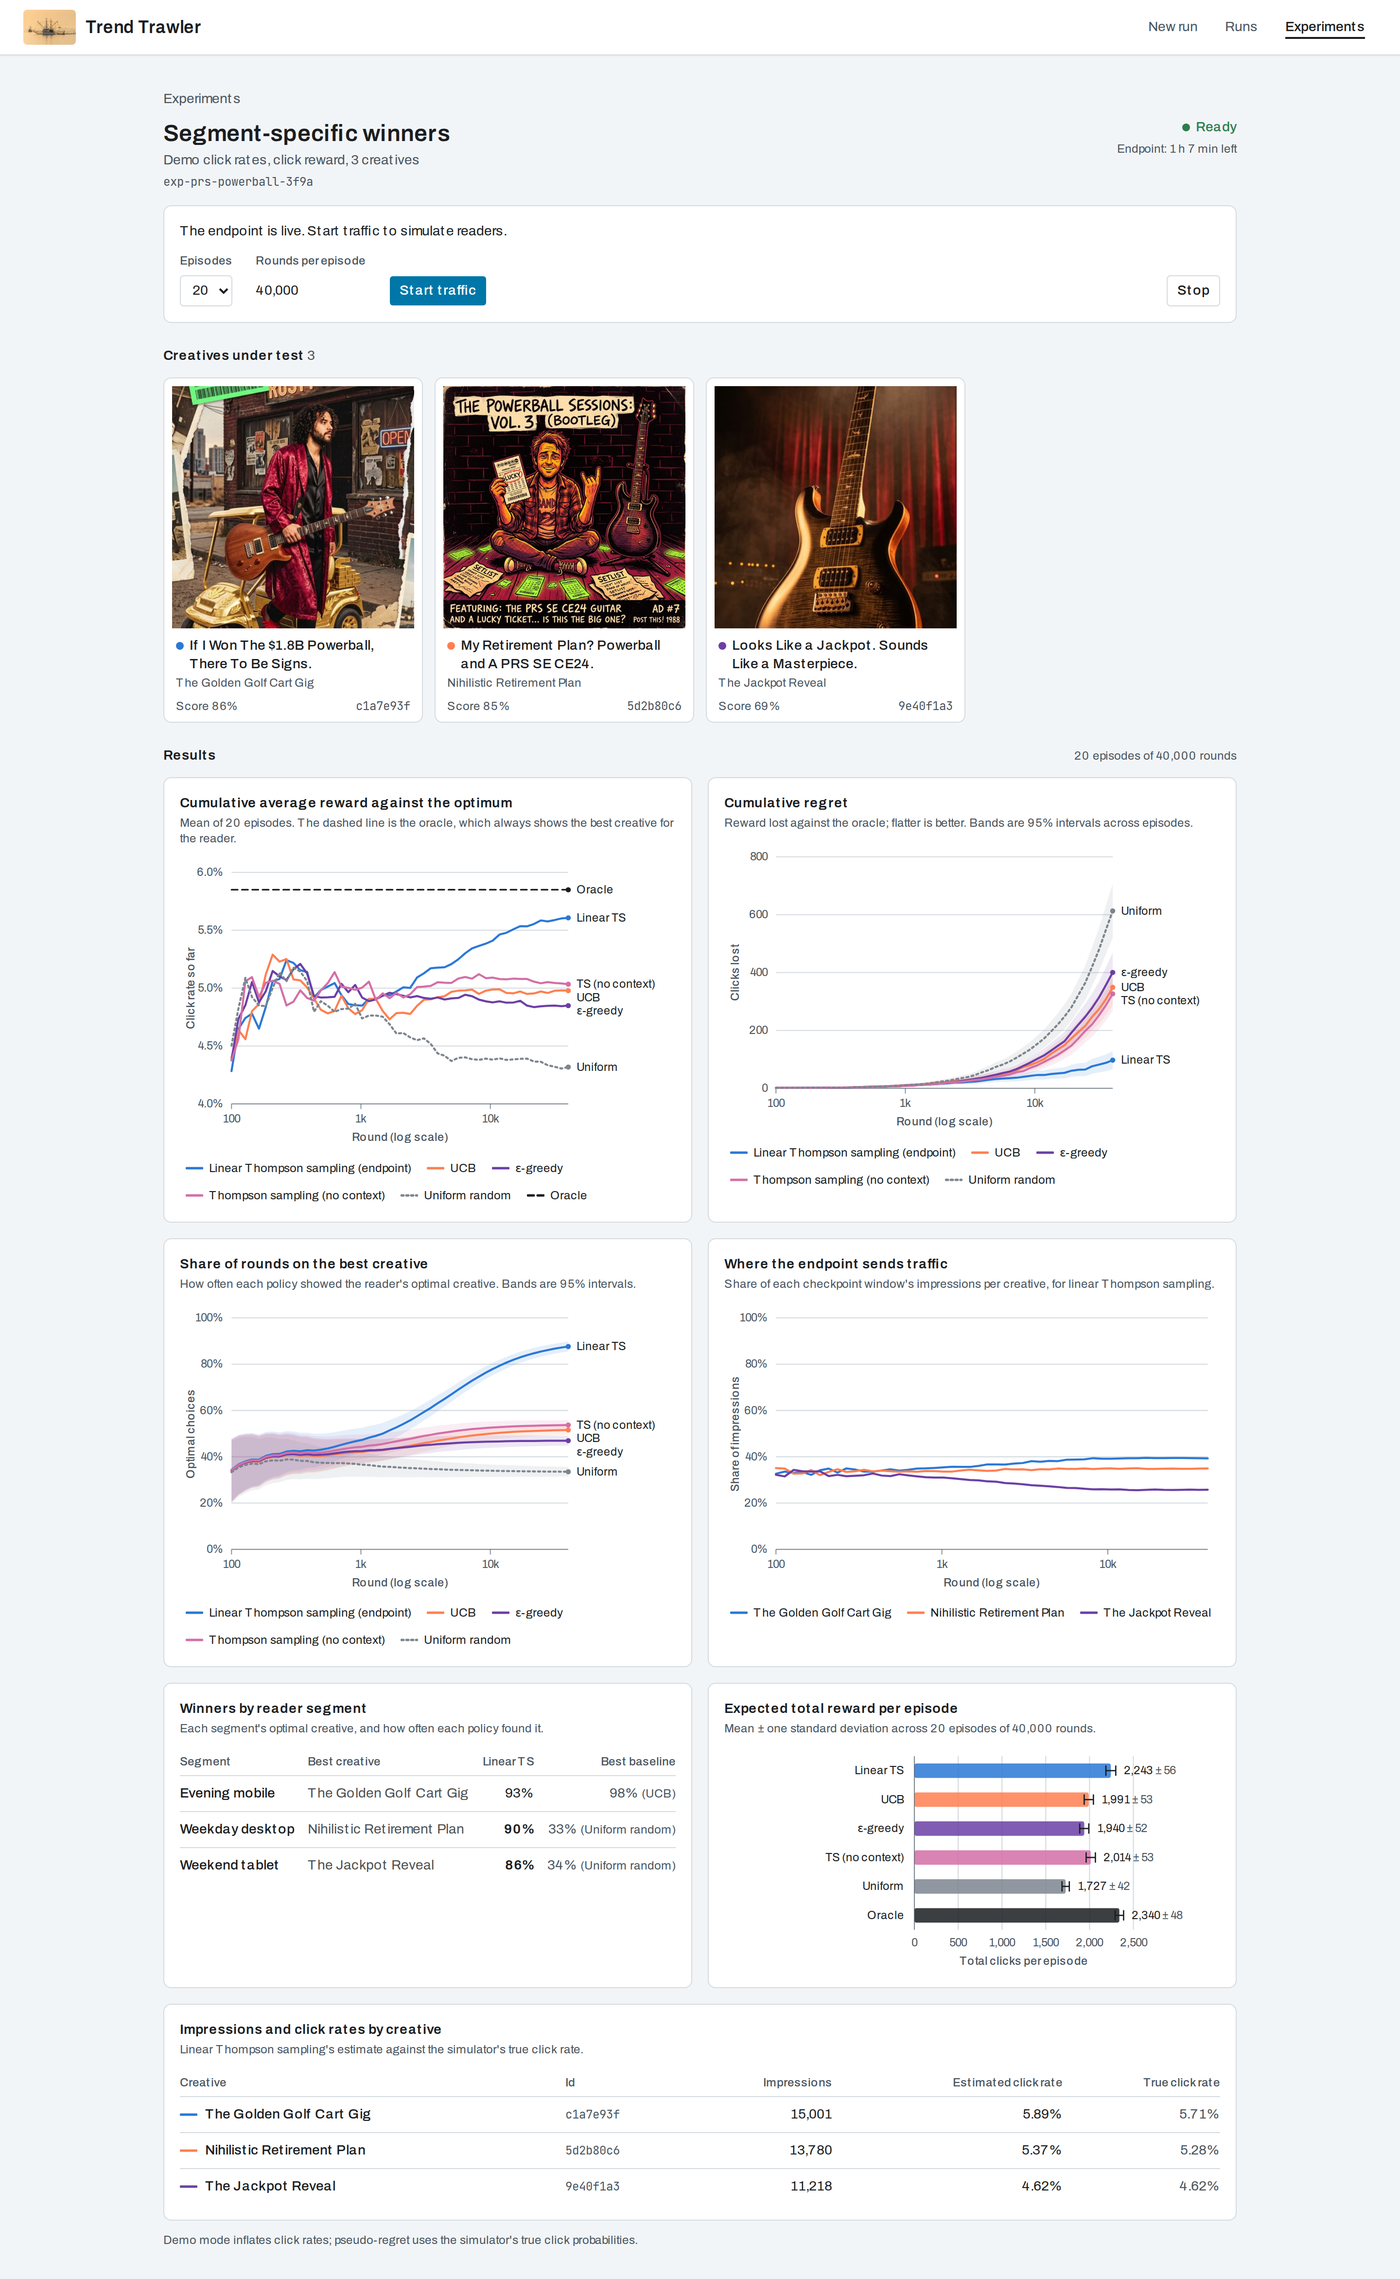
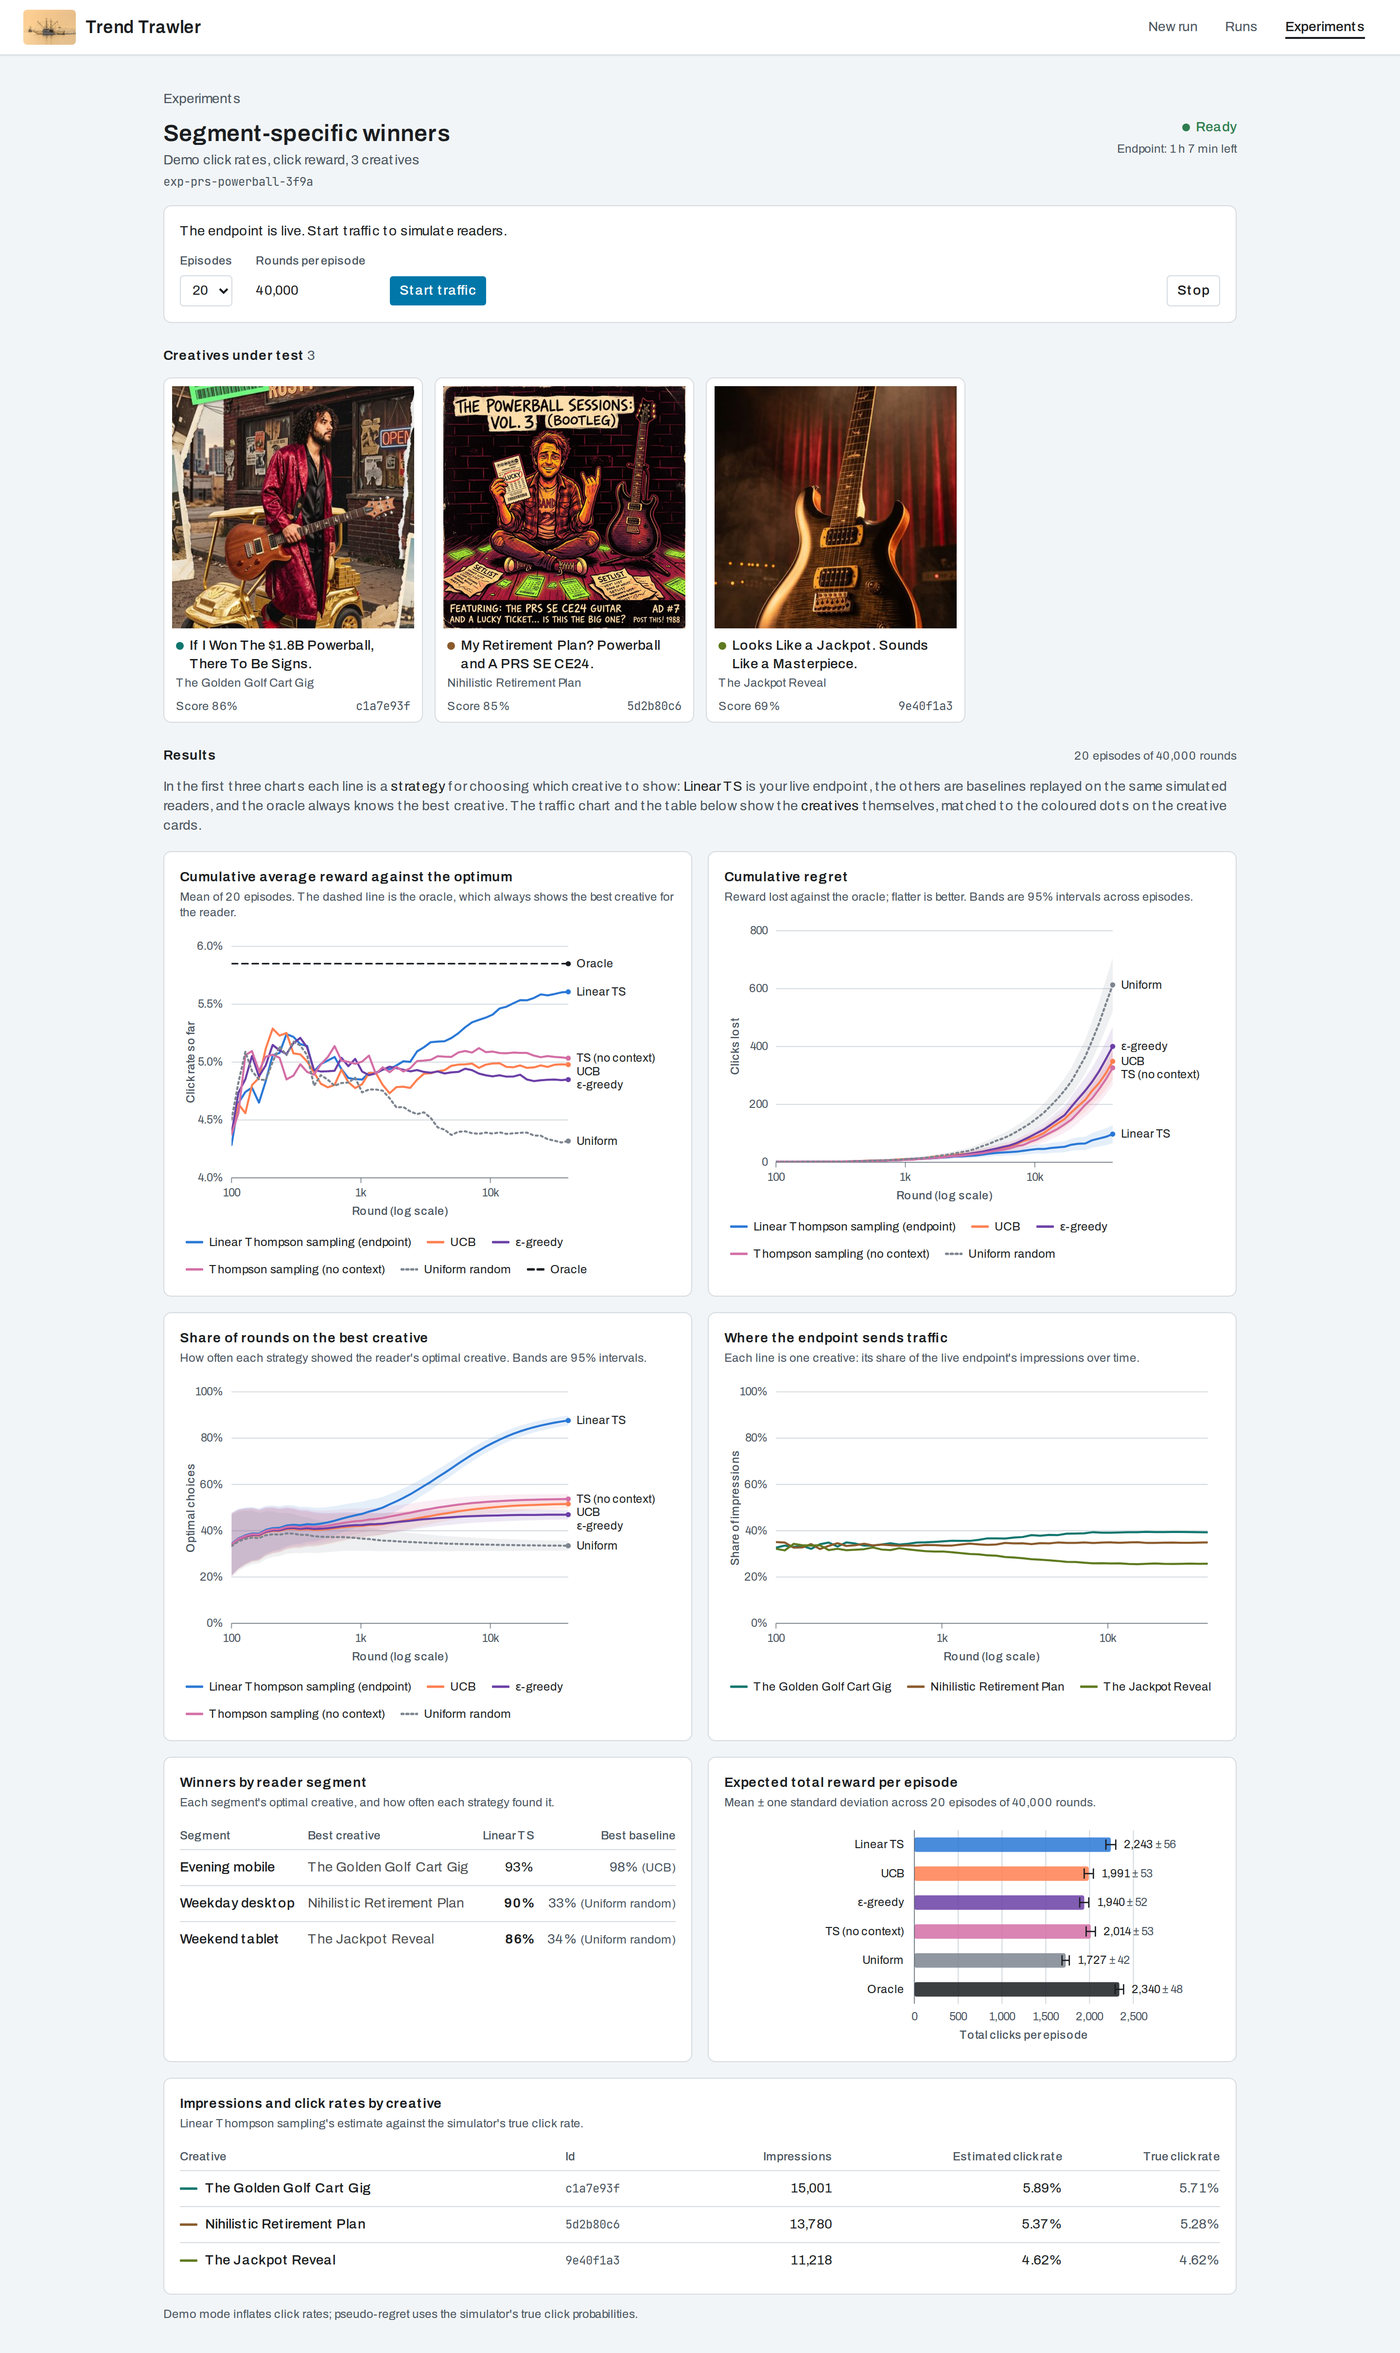
fix(experiments): charts robust to noisy early data; separate creative vs strategy colours (#227)
Found on the first live experiment: with few episodes, the 95% bands from the
first rounds spanned far outside the data, and the line chart (a) sized its y
axis to the bands, squashing the curves, and (b) drew bands outside the plot
(svg overflow-visible, no clip).

- line-chart: y domain follows the lines; bands are clamped to it; bands and
  lines are clipped to the plot area; optional minX (charts start at round 100,
  after the first posterior update).
- api + bandit aggregation: CI bands clamped to natural bounds (rates in [0,1],
  reward and regret >= 0).
- Creatives get their own earth-tone palette (they previously reused the
  strategy colours, so creative 1 and the live endpoint were both blue), plus a
  note explaining that comparison-chart lines are strategies, and 'strategy'
  wording in visible labels.

diff --git a/frontend/src/app/experiments/[experimentId]/experiment-charts.tsx b/frontend/src/app/experiments/[experimentId]/experiment-charts.tsx
@@ -70,16 +70,25 @@ export function ExperimentCharts({
 
   return (
     <div className="grid gap-4 lg:grid-cols-2">
+      <p className="text-sm text-muted-foreground lg:col-span-2">
+        In the first three charts each line is a <span className="text-foreground">strategy</span> for
+        choosing which creative to show: <span className="text-foreground">Linear TS</span> is your live
+        endpoint, the others are baselines replayed on the same simulated readers, and the oracle always
+        knows the best creative. The traffic chart and the table below show the{" "}
+        <span className="text-foreground">creatives</span> themselves, matched to the coloured dots on the
+        creative cards.
+      </p>
       <ChartPanel
         title="Cumulative average reward against the optimum"
         note={`Mean of ${ep}. The dashed line is the oracle, which always shows the best creative for the reader.`}
       >
         <LineChart
-          title="Cumulative average reward by policy, with the oracle as reference"
+          title="Cumulative average reward by strategy, with the oracle as reference"
           series={avg}
           xLabel={roundLabel}
           yLabel={rewardAxis}
           logX
+          minX={100}
           yZero={false}
           formatY={formatReward}
         />
@@ -90,24 +99,26 @@ export function ExperimentCharts({
         note="Reward lost against the oracle; flatter is better. Bands are 95% intervals across episodes."
       >
         <LineChart
-          title="Cumulative pseudo-regret by policy, with 95% confidence bands"
+          title="Cumulative pseudo-regret by strategy, with 95% confidence bands"
           series={regret}
           xLabel={roundLabel}
           yLabel={clickReward ? "Clicks lost" : "Seconds lost"}
           logX
+          minX={100}
         />
       </ChartPanel>
 
       <ChartPanel
         title="Share of rounds on the best creative"
-        note="How often each policy showed the reader's optimal creative. Bands are 95% intervals."
+        note="How often each strategy showed the reader's optimal creative. Bands are 95% intervals."
       >
         <LineChart
-          title="Percent of rounds choosing the optimal creative, by policy"
+          title="Percent of rounds choosing the optimal creative, by strategy"
           series={optimal}
           xLabel={roundLabel}
           yLabel="Optimal choices"
           logX
+          minX={100}
           yDomain={[0, 1]}
           formatY={pct}
         />
@@ -115,7 +126,7 @@ export function ExperimentCharts({
 
       <ChartPanel
         title="Where the endpoint sends traffic"
-        note="Share of each checkpoint window's impressions per creative, for linear Thompson sampling."
+        note="Each line is one creative: its share of the live endpoint's impressions over time."
       >
         {share.length ? (
           <LineChart
@@ -124,6 +135,7 @@ export function ExperimentCharts({
             xLabel={roundLabel}
             yLabel="Share of impressions"
             logX
+            minX={100}
             yDomain={[0, 1]}
             formatY={pct}
             directLabels={false}
@@ -135,7 +147,7 @@ export function ExperimentCharts({
 
       <ChartPanel
         title="Winners by reader segment"
-        note="Each segment's optimal creative, and how often each policy found it."
+        note="Each segment's optimal creative, and how often each strategy found it."
       >
         {segments.length ? (
           <div className="overflow-x-auto">
@@ -191,7 +203,7 @@ export function ExperimentCharts({
         }.`}
       >
         <BarChart
-          title="Expected total reward per episode by policy, mean plus or minus one standard deviation"
+          title="Expected total reward per episode by strategy, mean plus or minus one standard deviation"
           bars={totals.map((b) => ({ id: b.id, label: policyShortLabel(b.id), color: b.color, mean: b.mean, err: b.std }))}
           xLabel={clickReward ? "Total clicks per episode" : "Total engaged seconds per episode"}
           format={formatInt}

diff --git a/frontend/src/components/charts/line-chart.tsx b/frontend/src/components/charts/line-chart.tsx
@@ -49,6 +49,8 @@ export interface LineChartProps {
   referenceLines?: { y: number; label: string }[];
   /** Label each line at its right end (keep to ≤ 6 series). */
   directLabels?: boolean;
+  /** Drop points (and bands) before this x, e.g. the noisy rounds before the first update. */
+  minX?: number;
   className?: string;
 }
 
@@ -57,6 +59,8 @@ const W = 480;
 const H = 280;
 const M = { top: 14, right: 12, bottom: 42, left: 50 };
 const LABEL_GUTTER = 92;
+
+const clamp = (v: number, lo: number, hi: number) => Math.min(hi, Math.max(lo, v));
 
 /**
  * Multi-series SVG line chart: optional log x, CI bands (low-opacity fills),
@@ -76,9 +80,19 @@ export function LineChart({
   formatY = formatCompact,
   referenceLines = [],
   directLabels = true,
+  minX,
   className,
 }: LineChartProps) {
   const uid = useId();
+  // Points before `minX` (e.g. rounds before the first posterior update) are pure
+  // noise on a cumulative average, so they are not drawn at all.
+  if (minX !== undefined) {
+    series = series.map((s) => ({
+      ...s,
+      points: s.points.filter((p) => p.x >= minX),
+      band: s.band?.filter((b) => b.x >= minX),
+    }));
+  }
   const [hidden, setHidden] = useState<Set<string>>(new Set());
   const [hoverX, setHoverX] = useState<number | null>(null);
 
@@ -90,10 +104,10 @@ export function LineChart({
   const geom = (() => {
     const allX = series.flatMap((s) => s.points.map((p) => p.x)).filter((x) => !logX || x > 0);
     const xe = extent(allX) ?? [logX ? 1 : 0, logX ? 10 : 1];
-    const ys = visible.flatMap((s) => [
-      ...s.points.map((p) => p.y),
-      ...(s.band ?? []).flatMap((b) => [b.lo, b.hi]),
-    ]);
+    // The y domain follows the lines, not the CI bands: early bands on a few
+    // episodes can span far outside the data and would squash the curves. Bands
+    // are clamped to the domain when drawn instead.
+    const ys = visible.flatMap((s) => s.points.map((p) => p.y)).filter(Number.isFinite);
     ys.push(...referenceLines.map((r) => r.y));
     const ye = extent(ys) ?? [0, 1];
     const yd: [number, number] =
@@ -151,6 +165,7 @@ export function LineChart({
 
   const titleId = `${uid}-title`;
   const descId = `${uid}-desc`;
+  const clipId = `${uid}-plot`.replace(/:/g, "");
 
   return (
     <figure className={cn("min-w-0", className)}>
@@ -165,6 +180,12 @@ export function LineChart({
         >
           <title id={titleId}>{title}</title>
           {description && <desc id={descId}>{description}</desc>}
+          <defs>
+            {/* Bands and lines never paint outside the plot area. */}
+            <clipPath id={clipId}>
+              <rect x={M.left} y={M.top} width={plotW} height={plotH} />
+            </clipPath>
+          </defs>
 
           {/* Recessive grid + y ticks */}
           {yTicks.map((t) => (
@@ -244,7 +265,14 @@ export function LineChart({
               s.band && (
                 <path
                   key={`band-${s.id}`}
-                  d={bandPath(s.band.map((b) => ({ x: x(b.x), lo: y(b.lo), hi: y(b.hi) })))}
+                  d={bandPath(
+                    s.band.map((b) => ({
+                      x: x(b.x),
+                      lo: y(clamp(b.lo, geom.yd[0], geom.yd[1])),
+                      hi: y(clamp(b.hi, geom.yd[0], geom.yd[1])),
+                    }))
+                  )}
+                  clipPath={`url(#${clipId})`}
                   fill={s.color}
                   fillOpacity={0.12}
                   stroke="none"
@@ -285,6 +313,7 @@ export function LineChart({
               strokeDasharray={s.dash}
               strokeLinejoin="round"
               strokeLinecap="round"
+              clipPath={`url(#${clipId})`}
             />
           ))}
 

diff --git a/frontend/src/lib/experiments.ts b/frontend/src/lib/experiments.ts
@@ -450,7 +450,9 @@ export const POLICY_COLORS: Record<Policy, string> = {
 const POLICY_DASH: Partial<Record<Policy, string>> = { uniform: "2 3", oracle: "6 4" };
 
 /** Arm colours in arm order (the four chromatic slots; arms are capped at 4). */
-export const ARM_COLORS = ["#2a78d6", "#ff7f50", "#6b3fa6", "#d36fa6"] as const;
+// Creatives get their own earth-tone palette so a creative line never shares a
+// colour with a strategy line (POLICY_COLORS): teal, ochre-brown, olive, navy.
+export const ARM_COLORS = ["#0f766e", "#8a5a2b", "#5f7a1f", "#1e3a5f"] as const;
 
 const CANONICAL_ORDER: Policy[] = [
   "linear_ts",

diff --git a/runserver/experiments_metrics.py b/runserver/experiments_metrics.py
@@ -92,10 +92,31 @@ def mean_std(values: Sequence[float]) -> tuple[float, float]:
     return mean, math.sqrt(var)
 
 
-def band(series: Sequence[Sequence[float]]) -> dict:
+# Natural bounds per curve: a confidence interval on a bounded quantity is clamped
+# to its range (a rate can't be < 0 or > 1; reward and regret are never negative).
+CURVE_BOUNDS: dict[str, tuple[float | None, float | None]] = {
+    "cum_avg_reward": (0.0, None),
+    "cum_regret": (0.0, None),
+    "pct_optimal": (0.0, 1.0),
+}
+
+
+def _clamp(v: float, lo: float | None, hi: float | None) -> float:
+    if lo is not None and v < lo:
+        return lo
+    if hi is not None and v > hi:
+        return hi
+    return v
+
+
+def band(
+    series: Sequence[Sequence[float]],
+    bounds: tuple[float | None, float | None] = (None, None),
+) -> dict:
     """``{mean, lo, hi}`` per position across ``series`` (95% CI on the mean).
 
-    Series are truncated to the shortest one so every position has every episode."""
+    Series are truncated to the shortest one so every position has every episode.
+    ``lo``/``hi`` are clamped to ``bounds`` (see ``CURVE_BOUNDS``)."""
     if not series:
         return {"mean": [], "lo": [], "hi": []}
     length = min(len(s) for s in series)
@@ -105,8 +126,8 @@ def band(series: Sequence[Sequence[float]]) -> dict:
         mean, std = mean_std([float(s[i]) for s in series])
         half = t * std / math.sqrt(len(series)) if len(series) > 1 else 0.0
         out["mean"].append(mean)
-        out["lo"].append(mean - half)
-        out["hi"].append(mean + half)
+        out["lo"].append(_clamp(mean - half, *bounds))
+        out["hi"].append(_clamp(mean + half, *bounds))
     return out
 
 
@@ -225,7 +246,8 @@ def aggregate_episode_metrics(
                     curves_json[id(r)][snake]
                     for r in prow
                     if isinstance(curves_json[id(r)].get(snake), list)
-                ]
+                ],
+                CURVE_BOUNDS.get(snake, (None, None)),
             )
             for snake, camel in _CURVE_KEYS.items()
         }

diff --git a/bandit/aggregate.py b/bandit/aggregate.py
@@ -70,13 +70,33 @@ def mean_ci(values: Sequence[float]) -> tuple[float, float, float]:
     return mean, mean - half, mean + half
 
 
-def _band(series: Sequence[Sequence[float]]) -> dict[str, list[float]]:
+# Mirrors runserver/experiments_metrics.CURVE_BOUNDS: CIs on bounded curves are
+# clamped to their natural range.
+CURVE_BOUNDS: dict[str, tuple[float | None, float | None]] = {
+    "cum_avg_reward": (0.0, None),
+    "cum_regret": (0.0, None),
+    "pct_optimal": (0.0, 1.0),
+}
+
+
+def _clamp(v: float, lo: float | None, hi: float | None) -> float:
+    if lo is not None and v < lo:
+        return lo
+    if hi is not None and v > hi:
+        return hi
+    return v
+
+
+def _band(
+    series: Sequence[Sequence[float]],
+    bounds: tuple[float | None, float | None] = (None, None),
+) -> dict[str, list[float]]:
     out: dict[str, list[float]] = {"mean": [], "lo": [], "hi": []}
     for col in zip(*series, strict=True):
         m, lo, hi = mean_ci(col)
         out["mean"].append(_r(m))
-        out["lo"].append(_r(lo))
-        out["hi"].append(_r(hi))
+        out["lo"].append(_r(_clamp(lo, *bounds)))
+        out["hi"].append(_r(_clamp(hi, *bounds)))
     return out
 
 
@@ -138,7 +158,7 @@ def aggregate_episode_metrics(
     episodes = max(len({r["episode"] for r in rs}) for rs in by_policy.values())
 
     curves = {
-        p: {k: _band([r["curve"][k] for r in rs]) for k in _CURVE_KEYS}
+        p: {k: _band([r["curve"][k] for r in rs], CURVE_BOUNDS[k]) for k in _CURVE_KEYS}
         for p, rs in by_policy.items()
     }
     totals = {}

diff --git a/tests/test_experiments_metrics.py b/tests/test_experiments_metrics.py
@@ -128,7 +128,9 @@ def test_aggregate_shapes_and_values():
     # cum_regret at checkpoint 0 across episodes: 1, 2, 3 -> mean 2, sd 1, n 3
     half = 4.303 * 1.0 / math.sqrt(3)
     assert lin["cumRegret"]["mean"][0] == pytest.approx(2.0)
-    assert lin["cumRegret"]["lo"][0] == pytest.approx(2.0 - half)
+    assert lin["cumRegret"]["lo"][0] == pytest.approx(
+        max(0.0, 2.0 - half)
+    )  # clamped ≥ 0
     assert lin["cumRegret"]["hi"][0] == pytest.approx(2.0 + half)
     # identical episodes -> zero-width band
     assert m["curves"]["oracle"]["pctOptimal"]["lo"] == [0.3, 0.6, 0.9]
@@ -178,3 +180,14 @@ def test_missing_json_columns_are_tolerated():
     m = aggregate_episode_metrics([row], "exp1")
     assert m["arms"] == [] and m["perSegment"] == {} and m["checkpoints"] == []
     assert m["curves"]["linear_ts"]["cumRegret"] == {"mean": [], "lo": [], "hi": []}
+
+
+def test_bands_clamped_to_natural_bounds():
+    from runserver.experiments_metrics import CURVE_BOUNDS, band
+
+    # Few, very noisy episodes: the raw CI would leave [0, 1].
+    out = band([[0.0, 1.0], [1.0, 0.0]], CURVE_BOUNDS["pct_optimal"])
+    assert all(0.0 <= v <= 1.0 for v in out["lo"] + out["hi"])
+    out = band([[0.0, 5.0], [10.0, 0.0]], CURVE_BOUNDS["cum_regret"])
+    assert min(out["lo"]) == 0.0
+    assert band([[0.0], [1.0]])["lo"][0] < 0  # unbounded by default
